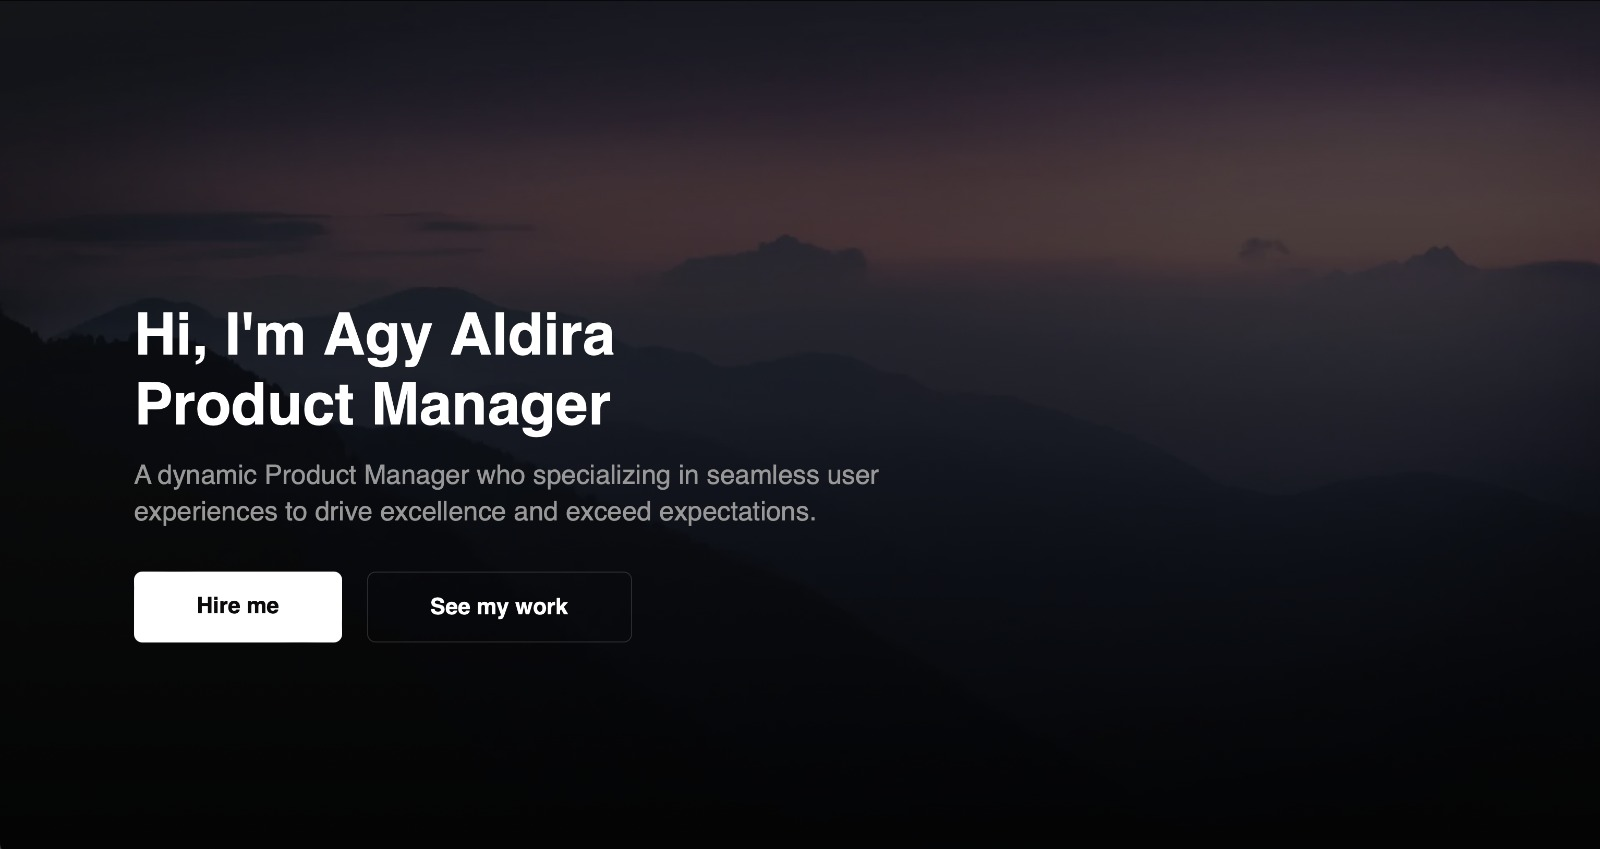
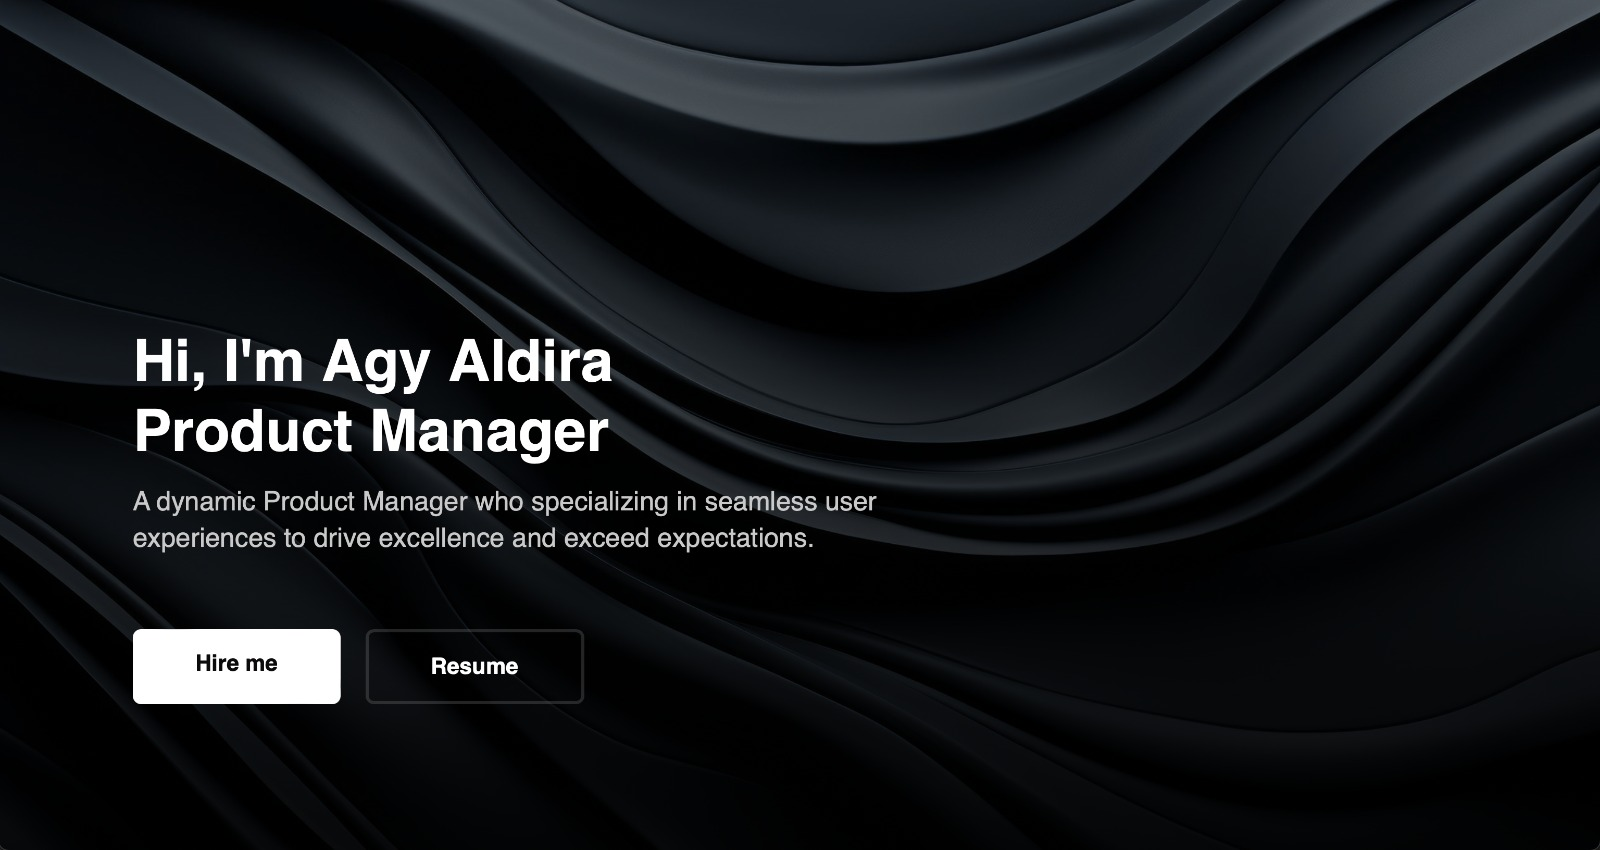
update

diff --git a/index.html b/index.html
@@ -121,7 +121,7 @@ I invite you to connect with me. Let's shape the future of innovation together."
     <main>
       <section class="client">
         <div class="container">
-          <h2 class="h2">Experience</h2>
+          <h2 class="h2">Experiences</h2>
           <div class="logos">
             <div class="logo-group">
               <a href="https://goto-impact.org/generasi-gigih/" target="_blank" rel="noopener">
@@ -172,7 +172,7 @@ I invite you to connect with me. Let's shape the future of innovation together."
 
       <section class="skills">
         <div class="container">
-          <h2 class="h2" id="skills">My Toolkit</h2>
+          <h2 class="h2" id="skills">Skills</h2>
           <div class="skills-imgs">
                 <a href="https://jira.atlassian.com" target="_blank" rel="noopener">
                   <img src="assets/images/skills/jira.svg.png" alt="React" class="skills-img" loading="lazy" title="React">
@@ -341,7 +341,7 @@ I invite you to connect with me. Let's shape the future of innovation together."
                 in increased revenue and customer satisfaction.
               </p>
               <img
-                src="assets/images/ttd agy hd.png"
+                src="assets/images/signatures.png"
                 alt="signatures"
                 class="invert-color signatures"
                 style="width: 80px; height: 120px;"/>

diff --git a/style.css b/style.css
@@ -283,7 +283,7 @@ h3,
 .btn-cta {
   color: var(--bg-color-primary);
   background-color: var(--important);
-  margin-top: 70px;
+  margin-top: 30px;
 }
 
 body.dark .btn-cta:hover,
@@ -297,9 +297,9 @@ body.light .btn-cta:focus {
 }
 
 .btn-secondary {
-  border: 1px solid var(--border-dark);
+  border: 3px solid var(--border-dark);
   color: var(--important);
-  margin-top: 70px;
+  margin-top: 30px;
 }
 
 .btn-secondary:hover,
@@ -485,17 +485,17 @@ main {
 
 body.dark .header {
   background-image: linear-gradient(#00000078, #000000e6),
-    url("assets/images/wallpaper6.jpeg");
+    url("assets/images/wallpaper-dark.jpeg");
 }
 
 body.light .header {
   background-image: linear-gradient(#ffffffa2, #fffffff6),
-    url("assets/images/wallpaper4.jpg");
+    url("assets/images/wallpaper-light.jpg");
 }
 
 .header-textbox {
   position: absolute;
-  top: 50%;
+  top: 55%;
   transform: translateY(-50%);
 }
 
